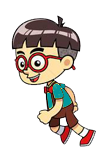
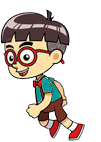
Actualizacion espacio personaje, tamaño reloj, Agregado codigo para agarrar despertador
Actualizacion espacio personaje, tamaño reloj, Agregado codigo para agarrar despertador

diff --git a/Código/pre.codigos/agarrar reloj.py b/Código/pre.codigos/agarrar reloj.py
@@ -1,0 +1,72 @@
+import pygame
+
+def main():
+    pygame.init()
+    pantalla=pygame.display.set_mode([800,600])
+    pygame.display.set_caption("Juego Lanz")
+    salir=False
+    reloj=pygame.time.Clock()
+    perso=pygame.image.load("jug.png").convert_alpha()
+    gato=pygame.image.load("clock.png").convert_alpha()
+    blanco=(255,255,255)
+    rojo=(255,0,0)
+    azul=(0,0,255)
+    GREEN=(154,211,171)
+    WHITE=(255,255,255)
+    
+
+    
+    sprite1=pygame.sprite.Sprite()
+    sprite1.image=perso
+    sprite1.rect=perso.get_rect()
+    sprite1.rect.top=300
+    sprite1.rect.left=50
+
+    sprite2=pygame.sprite.Sprite()
+    sprite2.image=gato
+    sprite2.rect=gato.get_rect()
+    sprite2.rect.top=200
+    sprite2.rect.left=50
+ 
+    
+
+    #loop principal
+    while salir !=True:
+        #recorro todos los eventos producidos
+        for event in pygame.event.get():
+           #si el evento es del tpo pygame.quit(cruz de la ventana) salir del while 
+            if event.type==pygame.QUIT:
+               salir=True
+            if event.type ==pygame.KEYDOWN:
+                if event.key== pygame.K_LEFT:
+                   sprite1.rect.move_ip(-20,0)
+                if event.key==pygame.K_RIGHT:
+                    sprite1.rect.move_ip(20,0)
+                if event.key==pygame.K_UP:
+                    sprite1.rect.move_ip(0,-20)
+                if event.key==pygame.K_DOWN:
+                    sprite1.rect.move_ip(0,20)
+                    
+        if event.type==pygame.MOUSEBUTTONDOWN:
+                if sprite1.rect.colliderect(sprite2.rect):
+                        sprite2.rect.top=10000
+                        sprite2.rect.left=10000
+
+      
+          
+        reloj.tick(20) #fijo a 20fps
+        pantalla.fill(blanco)
+       
+        pantalla.blit(sprite1.image,sprite1.rect)
+        pantalla.blit(sprite2.image,sprite2.rect)
+        pygame.display.update()#actualizo display
+   
+   
+    
+    
+    
+
+
+    pygame.quit()
+
+main()
